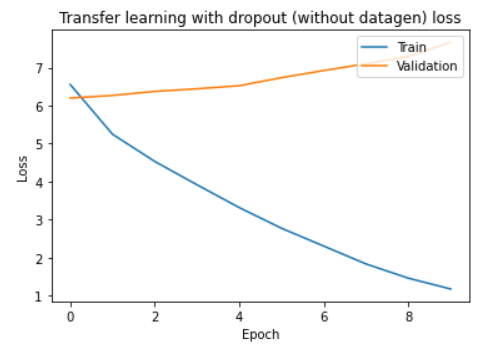
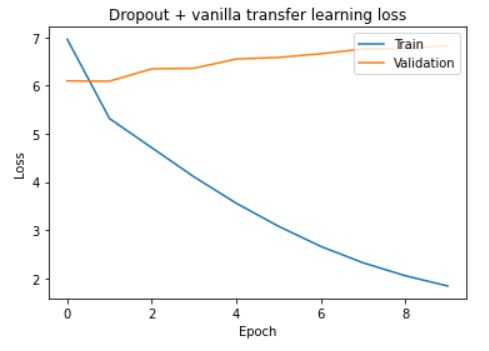
Updated report with validation loss monitoring metrics

diff --git a/README.md b/README.md
@@ -6,8 +6,8 @@ The purpose of the project is to present the deep learning model we created duri
 
 # Introduction
 
-For our deep learning project, we wanted to stay on the classification image field and try to reuse all the method learn during the course and manipulate more precisely some concept. We choose a kaggle competition so that we did not need to worry about gathering enough data ourselves.
-The purpose of this competition was to develop a machine learning model that could identify individual whales in images. Similar competition existed, but were more focused on the species of the whale. Here each class should actually represent one whale, identify by an Id. This model would then be used by associations to monitor whales activities quickly and help scientists understanding the mammal population dynamic in the world. 
+For our deep learning project, we wanted to stay on the classification image field and try to reuse all the methods learnt during the course and manipulate more precisely some concepts. We chose a Kaggle competition so that we did not need to worry about gathering enough data ourselves.
+The purpose of this competition was to develop a machine learning model that could identify individual whales in images. Similar competitions existed, but were more focused on the species of the whale. Here each class should actually represent one whale, identify by an Id. This model would then be used by associations to monitor whales activities quickly and help scientists understanding the mammal population dynamic in the world. 
 The happywhale's database contains 25,000 images of whales tails, gathered from many places (institutions and public contributors).
 
 # Method presentation
@@ -17,7 +17,7 @@ This kaggle dataset was not structured like most deep learning classification pr
 
 ## Overfitting
 
-Since we had our hands on the real data, we decided to first overfit our simplest model on a small amount of data, and focus on the training accuracy above anything else. 
+Since we had our hands on the real data, we decided to first overfit our simplest model on a small amount of data, and focus on the training accuracy and training loss above anything else. 
 We first had to select the images. We simply decided to take the first X row of the train.csv file and selecting afterwards all images which id were present in the rows.
 
 ## Data preparation
@@ -29,9 +29,9 @@ Then, we simply encoded the label (id of the individual whale) of the train.csv 
 
 ### model 1 : to overfit
 
-We tried different model and techniques to resolve the problem. Our first model was the one we used for overfitting, a simple Sequential CNN, which was still a bit deeper than any models we developed during the course. We used Convolutionnal and Max pooling layers to reduce the image size. We added batch normalization layers since we read that it could make our model training faster and more stable. We also decided to add one dropout layer, to avoid too much overfitting. We then added simple dense layers with a softmax activation to normalize the outputs to a probability distribution over predicted output classes. 
+We tried different models and techniques to resolve the problem. Our first model was the one we used for overfitting, a simple Sequential CNN, which was still a bit deeper than any models we developed during the course. We used Convolutionnal and Max pooling layers to reduce the image size. We added batch normalization layers since we read that it could make our model training faster and more stable. We also decided to add one dropout layer, to avoid too much overfitting. We then added simple dense layers with a softmax activation to normalize the outputs to a probability distribution over predicted output classes. 
 
-For the optimizer we choose Adam and a reduce learning rate on plateau.
+For the optimizer we choose Adam and we also introduced a reduce learning rate on plateau callback to help reduce the learning rate when the monitored metric (which is here the training loss first) began to stagnate.
 ```py
 def get_model():
 
@@ -72,7 +72,7 @@ model.compile(optimizer = optimizer, loss = 'categorical_crossentropy', metrics=
 base_model_history = model.fit(X_train, y_train, epochs=40, validation_split=0.3, callbacks=[learning_rate_reduction])
 ```
 
-We did a really good job for overfitting, with our first model achieving an accuracy 1 : 
+We did a really good job for overfitting, with our first model achieving an accuracy 1 and a loss of almost 0: 
 ```txt
 Epoch 00040: ReduceLROnPlateau reducing learning rate to 0.00010737419361248613.
 438/438 [==============================] - 31s 70ms/step - loss: 5.4193e-04 - accuracy: 1.0000 - val_loss: 10.7260 - val_accuracy: 0.3360 - lr: 1.3422e-04
@@ -86,7 +86,7 @@ Epoch 00040: ReduceLROnPlateau reducing learning rate to 0.00010737419361248613.
 
 ### model 2 : add dropout
 
-Since our first model did really good at overfitting, we decided to simply add more dropout layers (all with a factor of 0.3) between the dense one to decrease the overfitting.
+Since our first model did really good at overfitting, we decided to simply add more dropout layers (all with a factor of 0.3) between the dense one to decrease the overfitting. This time, we also decided to monitor the validation loss in the ReduceLROnPlateau callback instead of the training loss like we did before.
 
 ![model with dropout Accuracy](imagesForReadme/baseWithDropoutAccuracy.png)
 
@@ -94,9 +94,9 @@ Since our first model did really good at overfitting, we decided to simply add m
 ![model with dropout Loss](imagesForReadme/baseWithDropoutLoss.png)
 
 
-### model 3 : data generation
+### model 3 : dropout + data generation
 
-To still decrease the overfitting, we decided to try and use datageneration techniques to add more data. This was quite difficult because of the project data structure (all data in one directory and one csv file for the class matching). Because most project base themselves on a structured file system, we had a hard time fiding a datageneration technique that could handle such data. Fortunately, after a bit of research, we discovered that someone actually developed a new method in keras that handled the kind of representation we had (flow_from_dataframe).
+To still decrease the overfitting, we decided to try and use datageneration techniques to add more data. This was quite difficult because of the project data structure (all data in one directory and one csv file for the class matching). Because most project base themselves on a structured file system, we had a hard time finding a datageneration technique that could handle such data. Fortunately, after a bit of research, we discovered that someone actually developed a new method in keras that handled the kind of representation we had (flow_from_dataframe).
 
 This model was interesting to build however it took a lot of time to train. With 10 epochs it took 20 minutes to process the data. Moreover the result were not as good as expected, event for the tenth epoch (for the vanilla model we had a val_accuracy of 0.3110 at the tenth layer, here a val_accuracy of 0.3862) : 
 
@@ -106,7 +106,7 @@ This model was interesting to build however it took a lot of time to train. With
 ![model with data generation Loss](imagesForReadme/dataGenWithDropoutLoss.png)
 
 
-### model 4 : transfer learning
+### model 4 : dropout + transfer learning
 
 For our last tentative to decrease overfitting, we tried to use transfer learning. We choose for our base model ResNet50V2, which seemed to be an efficient model with a reasonable size (98), a quick process time (CPU : 45.6ms, GPU : 4.4ms) and an overall good accuracy (76.0%). 
 
